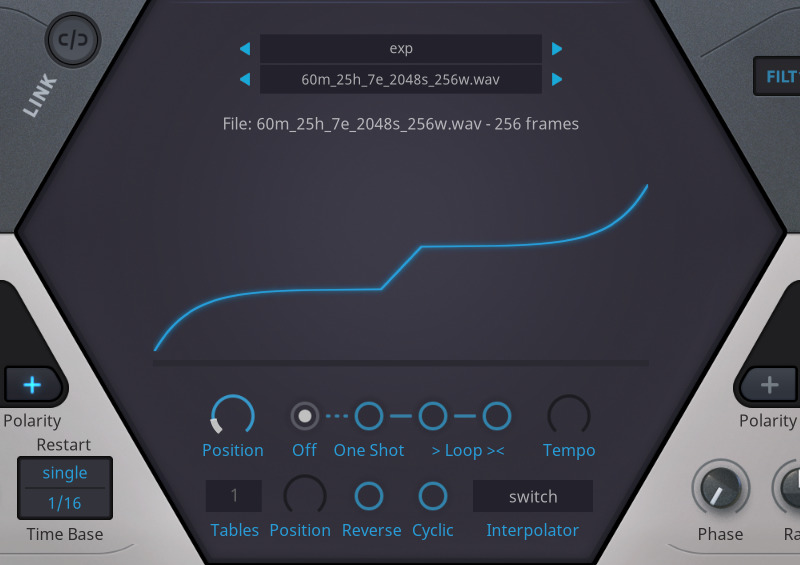
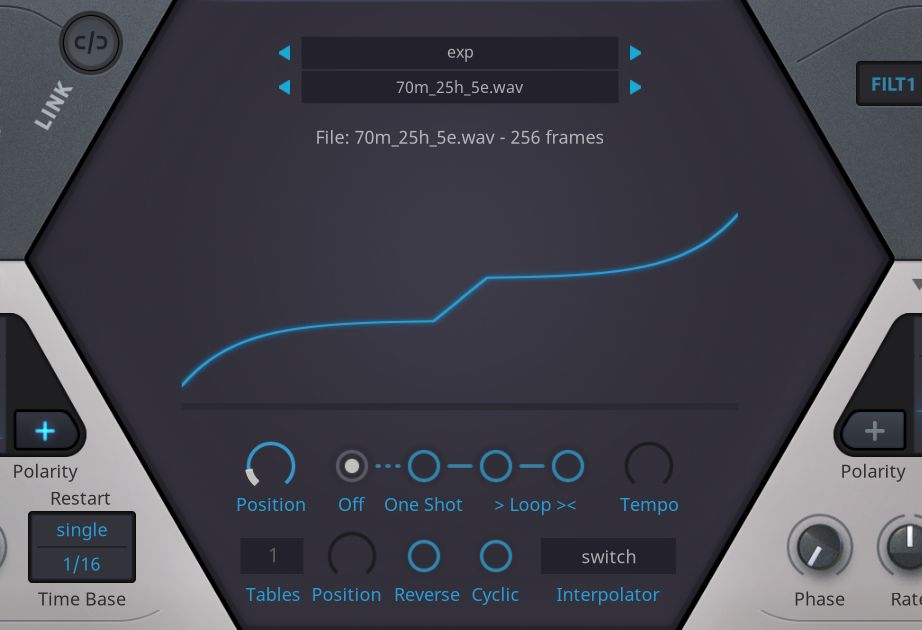
update screenshots

diff --git a/README.md b/README.md
@@ -8,15 +8,17 @@ I have tested the 32-bit float WAV wavetables with the Linux versions of [Surge 
 
 ### Animations
 
-![Exponential waveforms](images/60m_25h_5e_anim.gif)
+![Exponential function](images/70m_25h_5e_anim.gif)
 
-![Bézier waveforms](images/60m_25h_bz_anim.gif)
+![Bézier with alt offset](images/70m_45h_bz_anim.gif)
 
-![Direct line](images/60m_25h_dl_anim.gif)
+![Direct line](images/70m_25h_dl_anim.gif)
 
-![Gaussian filter](images/60m_35h_9e_ga40_anim.gif)
+![Gaussian filter](images/70m_25h_9e_ga40_anim.gif)
 
-![Savitzky-Golay filter](images/60m_25h_5e_sg10-3_anim.gif)
+![Direct + Gaussian](images/70m_25h_dl_ga40_anim.gif)
+
+![Savitzky-Golay filter](images/70m_25h_5e_sg10-3_anim.gif)
 
 Defaults: 32 bit float WAV, 256 waveforms, 2048 samples.
 
@@ -58,14 +60,6 @@ options:
 
 Try to play with `-m` from 20 to 50, `-o` from 20 to 70, `-e` with indicated range. Check the graph with `--graph`, it will show first and last frames.
 
-### Screenhots
-
-Bitwig 3D previews of wavetables that are generated using various parameters
-![Bitwig previews](images/bitwig_previews.jpg)
-
-Hive 2 wavetable oscillator
-![Hive 2 WT OSC](images/hive_wt.jpg)
-
 ## wttag
 
 To ensure compatibility with most synthesizers, wavetables need to be tagged with the wttag script, using the same -w and -s values as specified for the wtcurve. This script adds a WAV chunk to the WAV file, indicating the number of waveforms or samples based on the chunk type. In most cases, using --clm should work fine. Please note that I am unable to test the output WAVs with Serum as I don't have access to it. Example:
@@ -73,6 +67,24 @@ To ensure compatibility with most synthesizers, wavetables need to be tagged wit
 ```text
 wttag -s 2048 -w 256 -i wtc_20m_20h_5e_2048s_256w.wav -o wtv_clm.wav --clm
 ```
+
+### Screenhots
+
+Bitwig 3D previews of wavetables that are generated using various parameters
+
+![Bitwig previews](images/bitwig_previews.jpg)
+
+Hive 2 wavetable oscillator
+
+![Hive 2 WT OSC](images/hive_wt.jpg)
+
+Zebra 2 oscillator
+
+![Zebra 2 OSC](images/zebra_osc.jpg)
+
+Surge XT wavetable oscillator
+
+![Zebra 2 OSC](images/surgext_osc.jpg)
 
 ## (C)
 
